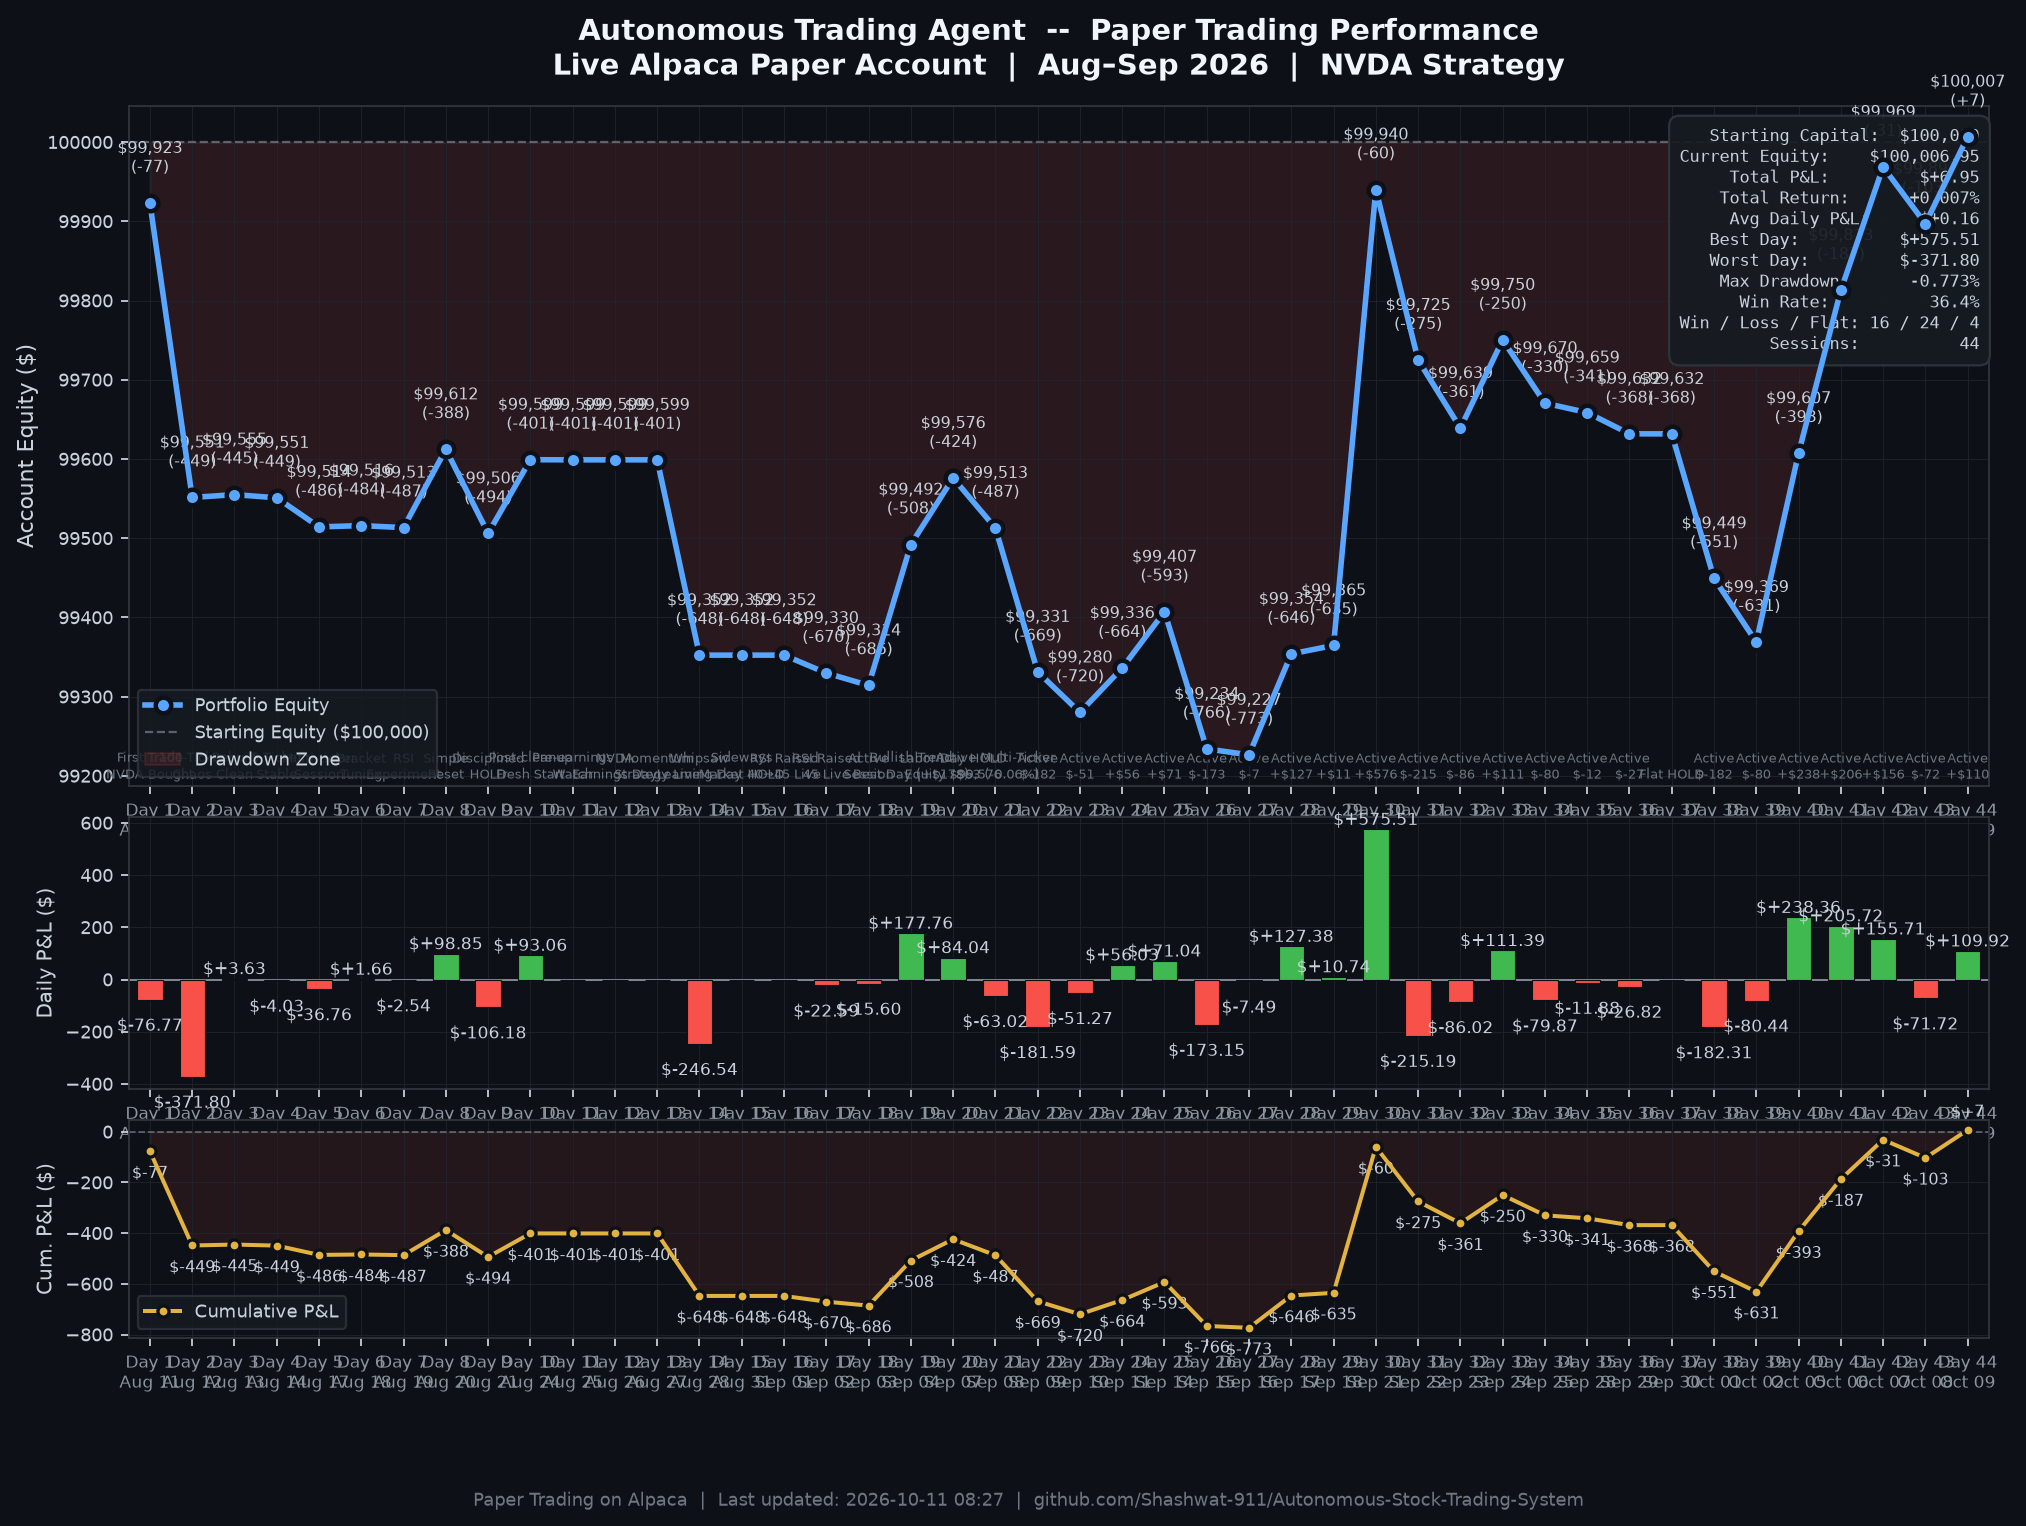
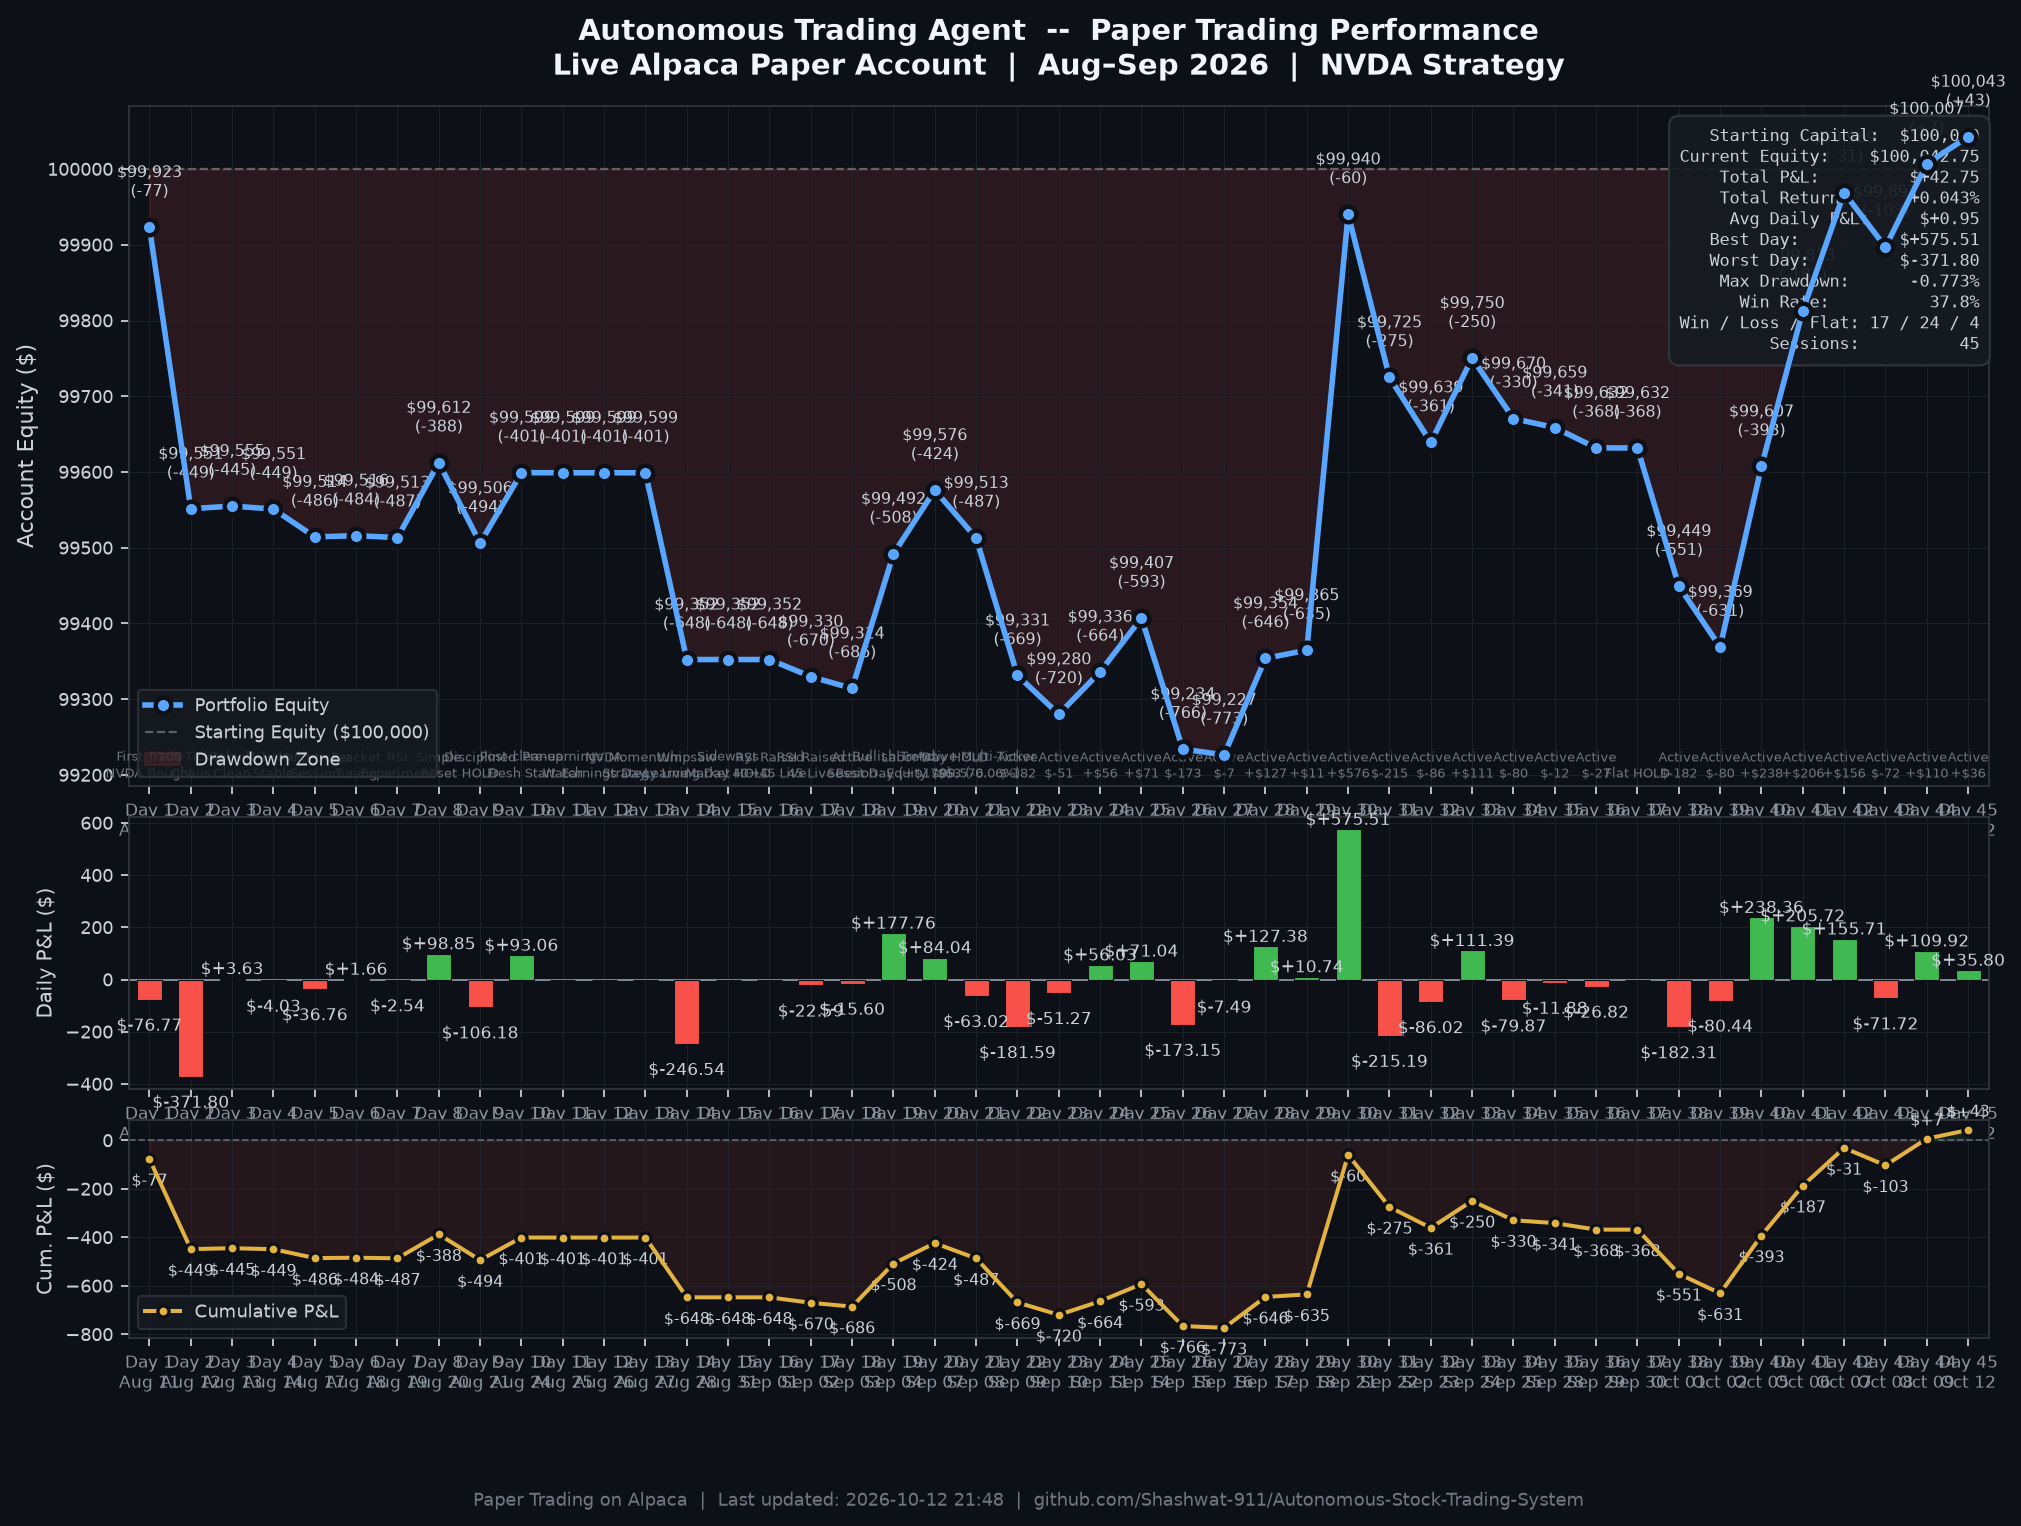
auto(session): 2026-10-12 | equity=$100,043 | return=+0.043%

diff --git a/README.md b/README.md
@@ -47,7 +47,7 @@ The automated trading bot is deployed in the cloud on Render with continuous mon
 
 > **Paper Trading on Alpaca** | Started: Aug 11, 2026 | Initial Capital: $100,000.00 | Universe: NVDA, TSLA, META, MSFT, AAPL (5-Stock High-Momentum Universe)
 
-![Daily P&L Chart](outputs/daily_pnl_chart.png?v=20261009)
+![Daily P&L Chart](outputs/daily_pnl_chart.png?v=20261012)
 
 *Chart auto-generated from live Alpaca Portfolio History API and verified session telemetry via [`scripts/generate_pnl_chart.py`](scripts/generate_pnl_chart.py).*
 
@@ -99,8 +99,9 @@ The automated trading bot is deployed in the cloud on Render with continuous mon
 | **Day 42** | Oct 07 (Wed) | $99,968.75 | **+$155.71** | -$31.25 | -0.031% | Profitable Session (+$155.71) |
 | **Day 43** | Oct 08 (Thu) | $99,897.03 | -$71.72 | -$102.97 | -0.103% | Active Session (-$71.72) |
 | **Day 44** | Oct 09 (Fri) | $100,006.95 | **+$109.92** | +$6.95 | +0.007% | Profitable Session (+$109.92) |
+| **Day 45** | Oct 12 (Mon) | $100,042.75 | +$35.80 | +$42.75 | +0.043% | Active Session (+$35.80) |
 
-> **Current Equity**: $100,006.95 | **Total P&L**: $+6.95 | **Best Day**: $+575.51 | **Win Rate**: 36.4% (16W / 24L / 4 Flat) | **Max Drawdown**: -0.773% | **Sessions**: 44
+> **Current Equity**: $100,042.75 | **Total P&L**: $+42.75 | **Best Day**: $+575.51 | **Win Rate**: 37.8% (17W / 24L / 4 Flat) | **Max Drawdown**: -0.773% | **Sessions**: 45
 ---
 
 ## System Architecture
